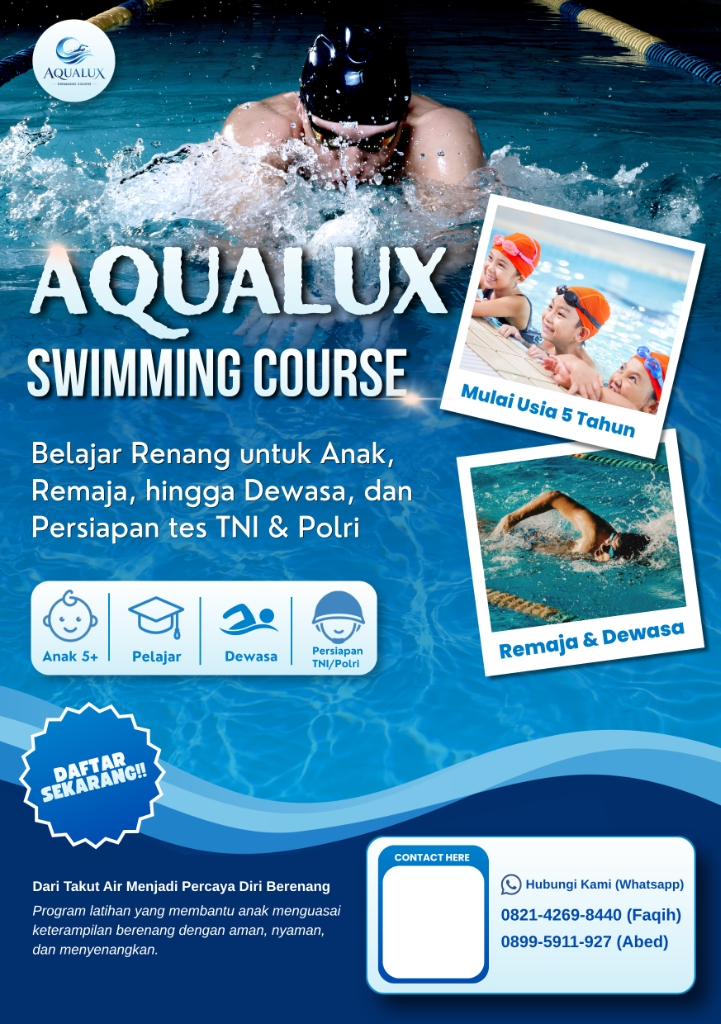
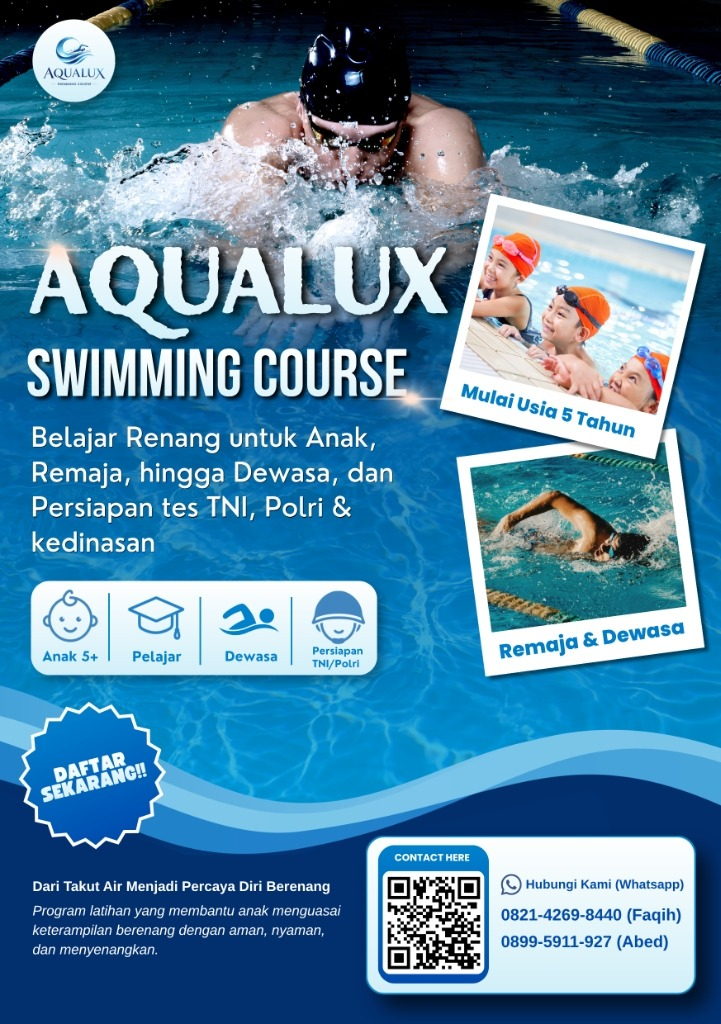
feat(content): update program poster to HD WebP and refine coach qualification text

Changed region(s): [[0.0305, 0.4062, 0.5798, 0.5625], [0.5187, 0.8438, 0.6713, 0.9688]]

diff --git a/src/components/Navbar.tsx b/src/components/Navbar.tsx
@@ -1,19 +1,4 @@
 import React, { useState, useEffect } from 'react';
-import { motion, AnimatePresence } from 'framer-motion';
-import { 
-  BookOpen, 
-  Tag, 
-  MapPin, 
-  Award, 
-  MessageSquareQuote, 
-  HelpCircle, 
-  Link as LinkIcon, 
-  Settings, 
-  MessageCircle, 
-  ChevronRight,
-  X,
-  Menu
-} from 'lucide-react';
 import { PhoneIcon } from '@heroicons/react/24/solid';
 import { useAqualuxData } from '../context/AqualuxDataContext';
 
@@ -34,253 +19,108 @@ export const Navbar: React.FC<NavbarProps> = ({ onOpenAdmin }) => {
     return () => window.removeEventListener('scroll', handleScroll);
   }, []);
 
-  const navLinks = [
-    { href: '#program', label: 'Program Kursus', shortLabel: 'Program', icon: BookOpen, color: 'text-blue-600 bg-blue-50' },
-    { href: '#keunggulan', label: 'Keunggulan Pelatih', shortLabel: 'Keunggulan', icon: Award, color: 'text-amber-600 bg-amber-50' },
-    { href: '#harga', label: 'Paket Harga', shortLabel: 'Harga', icon: Tag, color: 'text-emerald-600 bg-emerald-50' },
-    { href: '#lokasi', label: 'Lokasi & HTM', shortLabel: 'Lokasi', icon: MapPin, color: 'text-cyan-600 bg-cyan-50' },
-    { href: '#testimoni', label: 'Testimoni Alumni', shortLabel: 'Testimoni', icon: MessageSquareQuote, color: 'text-purple-600 bg-purple-50' },
-    { href: '#faq', label: 'FAQ (Tanya Jawab)', shortLabel: 'FAQ', icon: HelpCircle, color: 'text-teal-600 bg-teal-50' },
-  ];
-
-  // Instant single-tap navigation scroll handler
-  const handleNavClick = (e: React.SyntheticEvent, href: string) => {
-    e.preventDefault();
-    
-    // Instantly close mobile drawer
-    setMobileMenuOpen(false);
-
-    const targetId = href.replace('#', '');
-    
-    if (!targetId) {
-      window.scrollTo({ top: 0, behavior: 'smooth' });
-      return;
-    }
-
-    // Special route for LinkBio
-    if (targetId === 'links' || targetId === 'bio') {
-      window.history.pushState({}, '', 'links');
-      window.dispatchEvent(new Event('hashchange'));
-      window.scrollTo(0, 0);
-      return;
-    }
-
-    // Smooth scroll to section after closing menu
-    setTimeout(() => {
-      const element = document.getElementById(targetId);
-      if (element) {
-        const headerOffset = 70;
-        const elementPosition = element.getBoundingClientRect().top;
-        const offsetPosition = elementPosition + window.pageYOffset - headerOffset;
-
-        window.scrollTo({
-          top: offsetPosition,
-          behavior: 'smooth'
-        });
-      }
-    }, 40);
-  };
-
   return (
-    <>
-      <header className={`fixed top-0 left-0 right-0 z-50 transition-all duration-200 bg-white/95 backdrop-blur-md border-b ${
-        scrolled 
-          ? 'border-slate-300 py-2.5 shadow-md' 
-          : 'border-slate-200 py-3'
-      }`}>
-        <div className="max-w-7xl mx-auto px-4 sm:px-6 lg:px-8">
-          <div className="flex items-center justify-between gap-4">
-            
-            {/* Official Full Logo Brand Image (Icon + Text Combined) */}
-            <a 
-              href="#" 
-              onClick={(e) => handleNavClick(e, '#')}
-              className="flex items-center group text-left cursor-pointer shrink-0"
-            >
-              <div className="bg-white/95 backdrop-blur-xs px-2.5 py-1 rounded-2xl border border-slate-200/80 shadow-xs transition-transform group-hover:scale-105">
-                <img 
-                  src="./aqualux-logo.webp" 
-                  alt="AQUALUX Swimming Course" 
-                  width="160"
-                  height="54"
-                  className="h-9 sm:h-11 w-auto object-contain"
-                />
-              </div>
-            </a>
-
-            {/* Desktop Nav Pills */}
-            <nav className="hidden lg:flex items-center gap-1 bg-slate-100/90 p-1.5 rounded-full border border-slate-200/90 text-xs font-bold text-slate-700 shadow-inner">
-              {navLinks.map((item) => (
-                <a
-                  key={item.href}
-                  href={item.href}
-                  onClick={(e) => handleNavClick(e, item.href)}
-                  className="px-3.5 py-1.5 rounded-full hover:bg-white hover:text-blue-700 hover:shadow-xs transition-all whitespace-nowrap cursor-pointer text-xs font-bold"
-                >
-                  {item.shortLabel}
-                </a>
-              ))}
-            </nav>
-
-            {/* Desktop CTA WhatsApp */}
-            <div className="hidden lg:flex items-center gap-3 shrink-0">
-              <button
-                type="button"
-                onClick={() => openWaModal()}
-                className="inline-flex items-center gap-2 px-5 py-2.5 rounded-full bg-emerald-700 hover:bg-emerald-800 active:bg-emerald-900 text-white font-extrabold text-xs shadow-md shadow-emerald-700/20 transition-all btn-hover-effect btn-tactile cursor-pointer whitespace-nowrap"
-              >
-                <PhoneIcon className="w-4 h-4 text-white" />
-                <span>Chat Admin WA</span>
-              </button>
+    <header className={`fixed top-0 left-0 right-0 z-50 transition-all duration-200 bg-white border-b ${
+      scrolled 
+        ? 'border-slate-300 py-2.5 shadow-md' 
+        : 'border-slate-200 py-3'
+    }`}>
+      <div className="max-w-7xl mx-auto px-4 sm:px-6 lg:px-8">
+        <div className="flex items-center justify-between">
+          
+          {/* Official Logo Brand + Text Title */}
+          <a href="#" className="flex items-center gap-2.5 group text-left">
+            <img 
+              src="./aqualux-logo.png" 
+              alt="AQUALUX Private Swim" 
+              className="h-10 sm:h-12 w-auto object-contain transition-transform group-hover:scale-105"
+            />
+            <div className="flex flex-col">
+              <span className="font-black text-lg sm:text-xl font-outfit text-slate-950 tracking-tight leading-none group-hover:text-blue-700 transition-colors">
+                AQUALUX
+              </span>
+              <span className="text-[10px] sm:text-[11px] font-mono font-bold text-blue-700 tracking-wider uppercase leading-tight mt-0.5">
+                Private Swim
+              </span>
             </div>
+          </a>
 
-            {/* Android / Mobile Hamburger Button */}
-            <motion.button
-              whileTap={{ scale: 0.9 }}
-              onClick={() => setMobileMenuOpen(!mobileMenuOpen)}
-              className="lg:hidden p-2.5 rounded-xl bg-slate-100 border border-slate-300 text-slate-900 font-bold flex items-center justify-center transition-colors hover:bg-slate-200 cursor-pointer"
-              aria-label="Toggle Navigation Menu"
+          {/* Desktop Nav Pills */}
+          <nav className="hidden md:flex items-center gap-1.5 bg-slate-100 p-1.5 rounded-full border border-slate-300 text-xs font-bold text-slate-800">
+            <a href="#program" className="px-4 py-2 rounded-full hover:bg-white hover:text-blue-700 hover:shadow-xs transition-all">Program Kursus</a>
+            <a href="#harga" className="px-4 py-2 rounded-full hover:bg-white hover:text-blue-700 hover:shadow-xs transition-all">Paket Harga</a>
+            <a href="#lokasi" className="px-4 py-2 rounded-full hover:bg-white hover:text-blue-700 hover:shadow-xs transition-all">Lokasi Program</a>
+            <a href="#keunggulan" className="px-4 py-2 rounded-full hover:bg-white hover:text-blue-700 hover:shadow-xs transition-all">Keunggulan Pelatih</a>
+            <a href="#testimoni" className="px-4 py-2 rounded-full hover:bg-white hover:text-blue-700 hover:shadow-xs transition-all">Testimoni Alumni</a>
+            <a href="#faq" className="px-4 py-2 rounded-full hover:bg-white hover:text-blue-700 hover:shadow-xs transition-all">FAQ</a>
+          </nav>
+
+          {/* Desktop CTA WhatsApp */}
+          <div className="hidden md:flex items-center gap-3">
+            <button
+              type="button"
+              onClick={() => openWaModal()}
+              className="inline-flex items-center gap-2 px-5 py-2.5 rounded-full bg-emerald-600 hover:bg-emerald-700 text-white font-extrabold text-xs shadow-md transition-all btn-hover-effect btn-tactile"
             >
-              <AnimatePresence mode="wait" initial={false}>
-                {mobileMenuOpen ? (
-                  <motion.div
-                    key="close"
-                    initial={{ rotate: -90, opacity: 0 }}
-                    animate={{ rotate: 0, opacity: 1 }}
-                    exit={{ rotate: 90, opacity: 0 }}
-                    transition={{ duration: 0.15 }}
-                  >
-                    <X className="w-6 h-6 text-slate-900" />
-                  </motion.div>
-                ) : (
-                  <motion.div
-                    key="menu"
-                    initial={{ rotate: 90, opacity: 0 }}
-                    animate={{ rotate: 0, opacity: 1 }}
-                    exit={{ rotate: -90, opacity: 0 }}
-                    transition={{ duration: 0.15 }}
-                  >
-                    <Menu className="w-6 h-6 text-slate-900" />
-                  </motion.div>
-                )}
-              </AnimatePresence>
-            </motion.button>
-
+              <PhoneIcon className="w-4 h-4 text-white" />
+              <span>Chat Admin WA</span>
+            </button>
           </div>
+
+          {/* Mobile Menu Toggle */}
+          <button
+            onClick={() => setMobileMenuOpen(!mobileMenuOpen)}
+            className="md:hidden p-2.5 rounded-xl bg-slate-100 border border-slate-300 text-slate-900 font-bold"
+            aria-label="Toggle Menu"
+          >
+            <svg className="w-6 h-6" fill="none" viewBox="0 0 24 24" stroke="currentColor">
+              {mobileMenuOpen ? (
+                <path strokeLinecap="round" strokeLinejoin="round" strokeWidth={2.5} d="M6 18L18 6M6 6l12 12" />
+              ) : (
+                <path strokeLinecap="round" strokeLinejoin="round" strokeWidth={2.5} d="M4 6h16M4 12h16M4 18h16" />
+              )}
+            </svg>
+          </button>
+
         </div>
+      </div>
 
-        {/* Android / Mobile Drawer Overlay */}
-        <AnimatePresence>
-          {mobileMenuOpen && (
-            <motion.div
-              initial={{ opacity: 0, height: 0 }}
-              animate={{ opacity: 1, height: 'auto' }}
-              exit={{ opacity: 0, height: 0 }}
-              transition={{ duration: 0.22, ease: 'easeInOut' }}
-              className="lg:hidden overflow-hidden bg-white border-t border-slate-200 shadow-2xl"
+      {/* Mobile Drawer */}
+      {mobileMenuOpen && (
+        <div className="md:hidden bg-white border-b border-slate-300 px-4 py-5 space-y-3 text-slate-900 text-sm font-bold">
+          <a href="#program" onClick={() => setMobileMenuOpen(false)} className="block py-2">Program Kursus</a>
+          <a href="#lokasi" onClick={() => setMobileMenuOpen(false)} className="block py-2">Lokasi Hotel & HTM</a>
+          <a href="#keunggulan" onClick={() => setMobileMenuOpen(false)} className="block py-2">Keunggulan Pelatih</a>
+          <a href="#testimoni" onClick={() => setMobileMenuOpen(false)} className="block py-2">Testimoni Alumni</a>
+          <a href="#faq" onClick={() => setMobileMenuOpen(false)} className="block py-2">FAQ</a>
+          <a href="#links" onClick={() => setMobileMenuOpen(false)} className="block py-2 text-blue-700">● Link in Bio (/links)</a>
+
+          {onOpenAdmin && (
+            <button
+              type="button"
+              onClick={() => {
+                setMobileMenuOpen(false);
+                onOpenAdmin();
+              }}
+              className="w-full text-left py-2 text-blue-700 font-extrabold block border-t border-slate-100 pt-3"
             >
-              <div className="px-4 py-4 space-y-2 text-slate-900 max-h-[80vh] overflow-y-auto">
-                
-                <span className="text-[10px] font-mono font-bold text-slate-400 uppercase tracking-wider block px-3 pt-1 pb-1">
-                  NAVIGASI UTAMA AQUALUX
-                </span>
-
-                {/* Instant Single-Tap Nav Buttons */}
-                {navLinks.map((item, index) => {
-                  const Icon = item.icon;
-                  return (
-                    <motion.button
-                      key={item.href}
-                      type="button"
-                      initial={{ opacity: 0, x: -10 }}
-                      animate={{ opacity: 1, x: 0 }}
-                      transition={{ delay: index * 0.025 }}
-                      onClick={(e) => handleNavClick(e, item.href)}
-                      className="w-full text-left flex items-center justify-between p-3.5 rounded-2xl bg-slate-50 hover:bg-blue-50 active:bg-blue-100 border border-slate-200/80 transition-all text-xs font-extrabold text-slate-900 cursor-pointer"
-                    >
-                      <div className="flex items-center gap-3">
-                        <div className={`w-9 h-9 rounded-xl ${item.color} flex items-center justify-center shrink-0 shadow-xs`}>
-                          <Icon className="w-4.5 h-4.5" />
-                        </div>
-                        <span>{item.label}</span>
-                      </div>
-                      <ChevronRight className="w-4 h-4 text-slate-400" />
-                    </motion.button>
-                  );
-                })}
-
-                <div className="pt-2 space-y-2 border-t border-slate-200">
-                  <span className="text-[10px] font-mono font-bold text-slate-400 uppercase tracking-wider block px-3 pt-1">
-                    HALAMAN & PORTAL
-                  </span>
-
-                  <button
-                    type="button"
-                    onClick={(e) => handleNavClick(e, '#links')}
-                    className="w-full text-left flex items-center justify-between p-3.5 rounded-2xl bg-blue-50 hover:bg-blue-100 active:bg-blue-200 border border-blue-200 transition-all text-xs font-extrabold text-blue-900 cursor-pointer"
-                  >
-                    <div className="flex items-center gap-3">
-                      <div className="w-9 h-9 rounded-xl bg-blue-600 text-white flex items-center justify-center shrink-0 shadow-xs">
-                        <LinkIcon className="w-4.5 h-4.5" />
-                      </div>
-                      <span>Link in Bio (/links)</span>
-                    </div>
-                    <ChevronRight className="w-4 h-4 text-blue-400" />
-                  </button>
-
-                  {onOpenAdmin && (
-                    <button
-                      type="button"
-                      onClick={() => {
-                        setMobileMenuOpen(false);
-                        onOpenAdmin();
-                      }}
-                      className="w-full text-left flex items-center justify-between p-3.5 rounded-2xl bg-slate-100 hover:bg-slate-200 active:bg-slate-300 border border-slate-300 transition-all text-xs font-extrabold text-slate-900 cursor-pointer"
-                    >
-                      <div className="flex items-center gap-3">
-                        <div className="w-9 h-9 rounded-xl bg-slate-800 text-white flex items-center justify-center shrink-0 shadow-xs">
-                          <Settings className="w-4.5 h-4.5" />
-                        </div>
-                        <span>Portal Admin Aqualux (/admin)</span>
-                      </div>
-                      <ChevronRight className="w-4 h-4 text-slate-500" />
-                    </button>
-                  )}
-                </div>
-
-                {/* Primary WhatsApp Mobile Button */}
-                <div className="pt-3 pb-1">
-                  <button
-                    type="button"
-                    onClick={() => {
-                      setMobileMenuOpen(false);
-                      openWaModal();
-                    }}
-                    className="w-full py-3.5 px-4 rounded-2xl bg-emerald-600 hover:bg-emerald-700 active:bg-emerald-800 text-white font-extrabold text-xs flex items-center justify-center gap-2 shadow-lg shadow-emerald-600/25 transition-all cursor-pointer"
-                  >
-                    <MessageCircle className="w-5 h-5 text-white" />
-                    <span>Hubungi Admin WA (Faqih / Abed)</span>
-                  </button>
-                </div>
-
-              </div>
-            </motion.div>
+              ⚙ Portal Admin Aqualux (/admin)
+            </button>
           )}
-        </AnimatePresence>
-      </header>
-
-      {/* Backdrop overlay when mobile menu is open */}
-      <AnimatePresence>
-        {mobileMenuOpen && (
-          <motion.div
-            initial={{ opacity: 0 }}
-            animate={{ opacity: 1 }}
-            exit={{ opacity: 0 }}
-            onClick={() => setMobileMenuOpen(false)}
-            className="fixed inset-0 bg-slate-950/40 backdrop-blur-xs z-40 lg:hidden"
-          />
-        )}
-      </AnimatePresence>
-    </>
+          
+          <button
+            type="button"
+            onClick={() => {
+              setMobileMenuOpen(false);
+              openWaModal();
+            }}
+            className="w-full inline-flex items-center justify-center gap-2 py-3 rounded-xl bg-emerald-600 text-white font-extrabold text-xs shadow-md mt-2"
+          >
+            <PhoneIcon className="w-4 h-4" />
+            <span>Hubungi Admin WA (Faqih / Abed)</span>
+          </button>
+        </div>
+      )}
+    </header>
   );
 };

diff --git a/src/components/Hero3DCardCarousel.tsx b/src/components/Hero3DCardCarousel.tsx
@@ -67,7 +67,7 @@ const CAROUSEL_CARDS: CardData[] = [
     badge: 'Pelatih Berpengalaman',
     image: './images/carousel-coach.webp',
     highlight1Label: 'Kualifikasi:',
-    highlight1Val: 'Eks-Atlet Jatim',
+    highlight1Val: 'Eks-Atlet',
     highlight2Label: 'Pendekatan:',
     highlight2Val: 'Sabar & Telaten',
     tagColor: 'bg-amber-100 text-amber-900 border-amber-300',
